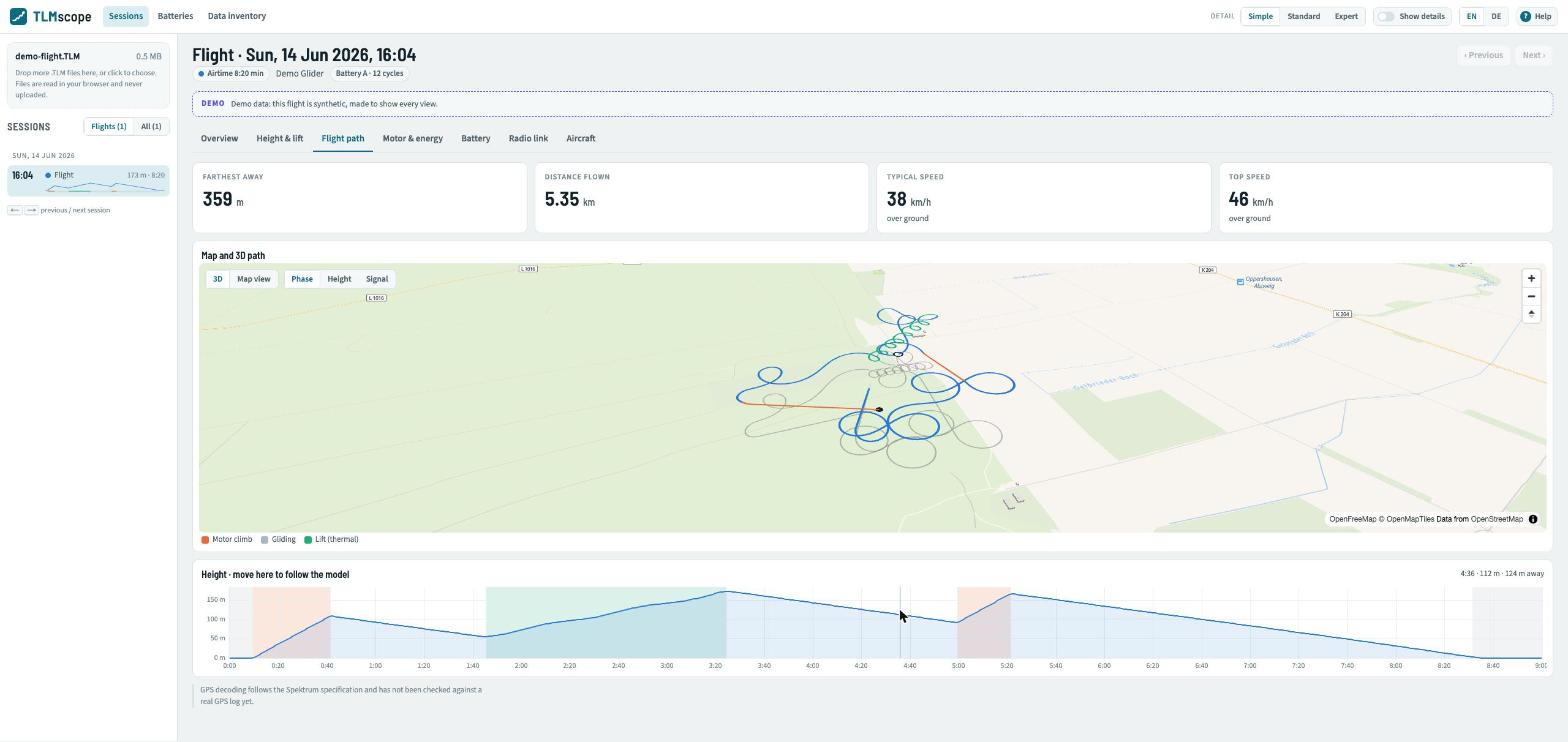
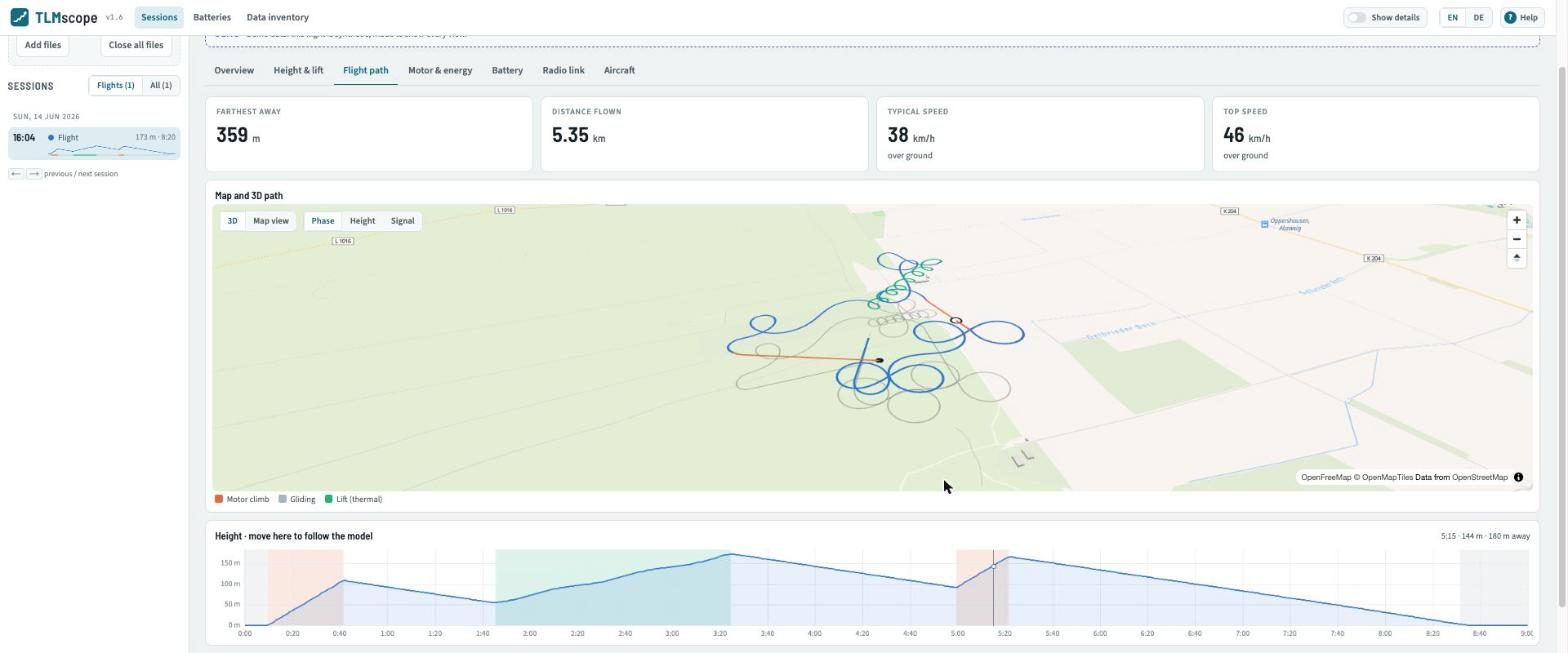
README: link to the live app, overview screenshot at the top, fresh screenshots

diff --git a/README.md b/README.md
@@ -6,7 +6,11 @@ TLMscope shows what happened during your RC flights. It reads the telemetry logs
 
 Files are read in your browser. Nothing is uploaded.
 
-> **Status:** working app, not yet published (see [the plan](docs/implementation-plan.md)). Screenshots are at the end of this page.
+**Open the app: [tlmscope.andreasknoor.com](https://tlmscope.andreasknoor.com)**, or try it with the built-in demo flight.
+
+![TLMscope showing the demo flight: summary sentence, key numbers, height profile with motor climbs, lift and gliding, and the health check](docs/images/overview.jpg)
+
+> **Status:** working app, published on Vercel; every push to `main` goes live (see [the plan](docs/implementation-plan.md)). More screenshots are at the end of this page.
 
 ## Using the app
 
@@ -266,8 +270,6 @@ Sources: Spektrum `spektrumTelemetrySensors.h` structure layouts, the project's 
 
 ## Screenshots
 
-Both show the synthetic demo flight, not real pilot data.
-
-![Overview of a flight: summary sentence, height profile with motor climbs, lift and gliding, and the health check](docs/images/overview.jpg)
+All screenshots show the synthetic demo flight, not real pilot data. The overview is at the top of this page.
 
 ![Flight path: map with the 3D path coloured by phase, distance and speed, and a height chart that moves the marker on the map](docs/images/flight-path.jpg)
